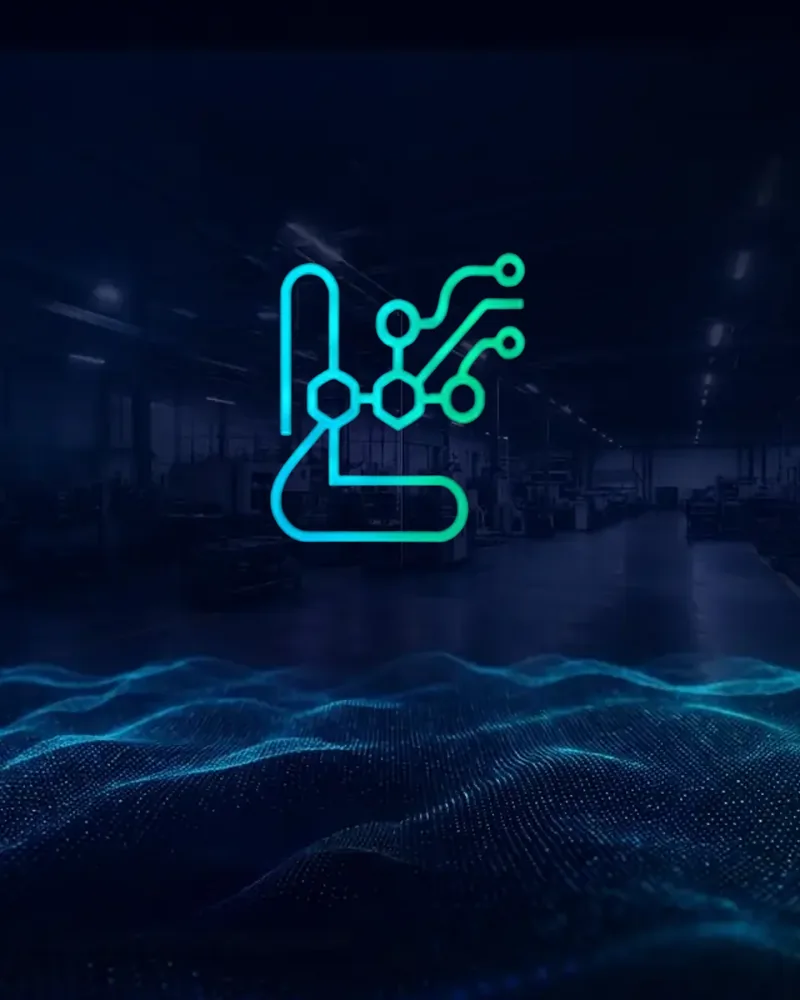
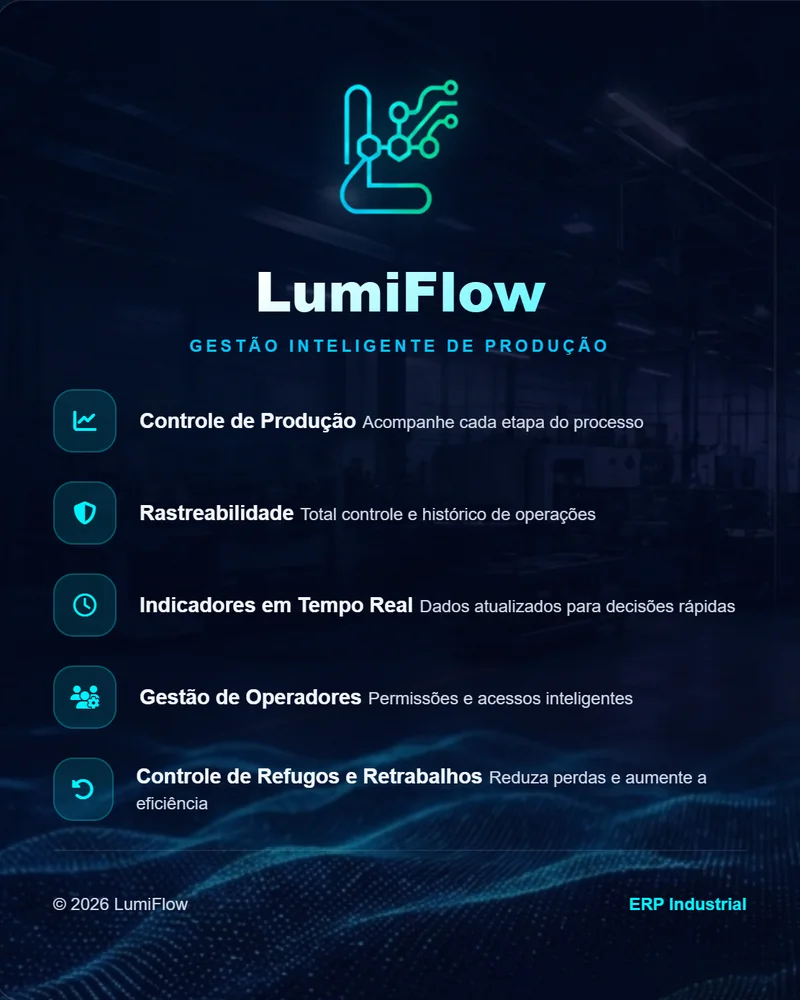
feat: visualizador ampliado e capa com a tela de entrada do LumiFlow
Visualizador
- Clicar numa imagem do carrossel abre a versão ampliada num <dialog>
  nativo, com setas, contador, botão Fechar, Esc e clique fora
- O foco vai para Fechar ao abrir e volta à imagem ao fechar; as setas
  do teclado também funcionam dentro do visualizador
- Fundo escurecido pelo novo token --color-overlay; a imagem entra com
  fade, desligado com movimento reduzido

Capa
- A capa do carrossel passa a ser o painel de informações da tela de
  login real do LumiFlow (logo e as cinco funções), sem o formulário

diff --git a/src/sections/Projects/ImageCarousel.tsx b/src/sections/Projects/ImageCarousel.tsx
@@ -1,4 +1,11 @@
-import { useState, type KeyboardEvent } from 'react'
+import {
+  useEffect,
+  useRef,
+  useState,
+  type KeyboardEvent,
+  type MouseEvent,
+  type SyntheticEvent,
+} from 'react'
 import type { ProjectImage } from '../../types'
 import styles from './ImageCarousel.module.css'
 
@@ -28,14 +35,69 @@ function Chevron({ direction }: { direction: 'left' | 'right' }) {
   )
 }
 
+function CloseIcon() {
+  return (
+    <svg
+      className={styles.icon}
+      viewBox="0 0 24 24"
+      aria-hidden="true"
+      focusable="false"
+    >
+      <path
+        d="M6 6l12 12M18 6L6 18"
+        fill="none"
+        stroke="currentColor"
+        strokeWidth="2"
+        strokeLinecap="round"
+      />
+    </svg>
+  )
+}
+
 /**
  * Carrossel simples: uma imagem por vez, setas, indicadores e as setas do
  * teclado. Não troca sozinho (o projeto só permite o fade-in como animação).
+ * Clicar na imagem abre um visualizador ampliado num <dialog> nativo.
  */
 export function ImageCarousel({ images, label }: ImageCarouselProps) {
   const [index, setIndex] = useState(0)
+  const [zoomed, setZoomed] = useState(false)
+  const dialogRef = useRef<HTMLDialogElement>(null)
+  const closeRef = useRef<HTMLButtonElement>(null)
+  const zoomRefs = useRef<(HTMLButtonElement | null)[]>([])
+  const reopenFocus = useRef(false)
   const total = images.length
+  const current = images[index]
   const go = (next: number) => setIndex((next + total) % total)
+
+  useEffect(() => {
+    const dialog = dialogRef.current
+    if (!dialog) return
+    if (zoomed) {
+      // jsdom e navegadores antigos não têm showModal: usa o atributo open.
+      if (typeof dialog.showModal === 'function') {
+        if (!dialog.open) dialog.showModal()
+      } else {
+        dialog.setAttribute('open', '')
+      }
+      closeRef.current?.focus()
+    } else {
+      if (typeof dialog.close === 'function') {
+        if (dialog.open) dialog.close()
+      } else {
+        dialog.removeAttribute('open')
+      }
+      if (reopenFocus.current) {
+        reopenFocus.current = false
+        zoomRefs.current[index]?.focus()
+      }
+    }
+  }, [zoomed, index])
+
+  function closeZoom() {
+    reopenFocus.current = true
+    setZoomed(false)
+  }
 
   function handleKeyDown(event: KeyboardEvent<HTMLDivElement>) {
     if (event.key === 'ArrowRight') {
@@ -44,7 +106,21 @@ export function ImageCarousel({ images, label }: ImageCarouselProps) {
     } else if (event.key === 'ArrowLeft') {
       event.preventDefault()
       go(index - 1)
+    } else if (event.key === 'Escape' && zoomed) {
+      event.preventDefault()
+      closeZoom()
     }
+  }
+
+  // Esc no <dialog> nativo dispara "cancel": fecha pelo estado do React.
+  function handleCancel(event: SyntheticEvent<HTMLDialogElement>) {
+    event.preventDefault()
+    closeZoom()
+  }
+
+  // Clique no fundo escurecido (fora da imagem) fecha.
+  function handleBackdropClick(event: MouseEvent<HTMLDialogElement>) {
+    if (event.target === event.currentTarget) closeZoom()
   }
 
   return (
@@ -65,15 +141,25 @@ export function ImageCarousel({ images, label }: ImageCarouselProps) {
             aria-label={`${i + 1} de ${total}`}
             hidden={i !== index}
           >
-            <img
-              className={styles.image}
-              src={image.src}
-              alt={image.alt}
-              width={image.width}
-              height={image.height}
-              loading="lazy"
-              decoding="async"
-            />
+            <button
+              ref={(element) => {
+                zoomRefs.current[i] = element
+              }}
+              type="button"
+              className={styles.zoom}
+              aria-label={`Ampliar imagem ${i + 1} de ${total}`}
+              onClick={() => setZoomed(true)}
+            >
+              <img
+                className={styles.image}
+                src={image.src}
+                alt={image.alt}
+                width={image.width}
+                height={image.height}
+                loading="lazy"
+                decoding="async"
+              />
+            </button>
           </div>
         ))}
         <button
@@ -110,6 +196,54 @@ export function ImageCarousel({ images, label }: ImageCarouselProps) {
           ))}
         </div>
       </div>
+      <dialog
+        ref={dialogRef}
+        className={styles.lightbox}
+        aria-label="Imagem ampliada"
+        onCancel={handleCancel}
+        onClick={handleBackdropClick}
+      >
+        {zoomed && (
+          <div className={styles.lightboxInner}>
+            <img
+              key={current.src}
+              className={styles.lightboxImage}
+              src={current.src}
+              alt={current.alt}
+              width={current.width}
+              height={current.height}
+            />
+            <button
+              ref={closeRef}
+              type="button"
+              className={`${styles.arrow} ${styles.close}`}
+              aria-label="Fechar"
+              onClick={closeZoom}
+            >
+              <CloseIcon />
+            </button>
+            <button
+              type="button"
+              className={`${styles.arrow} ${styles.prev}`}
+              aria-label="Imagem anterior"
+              onClick={() => go(index - 1)}
+            >
+              <Chevron direction="left" />
+            </button>
+            <button
+              type="button"
+              className={`${styles.arrow} ${styles.next}`}
+              aria-label="Próxima imagem"
+              onClick={() => go(index + 1)}
+            >
+              <Chevron direction="right" />
+            </button>
+            <p className={styles.lightboxCounter}>
+              {index + 1} de {total}
+            </p>
+          </div>
+        )}
+      </dialog>
     </div>
   )
 }

diff --git a/src/sections/Projects/ImageCarousel.test.tsx b/src/sections/Projects/ImageCarousel.test.tsx
@@ -86,4 +86,70 @@ describe('ImageCarousel', () => {
     expect(animation).toBeGreaterThan(reduced)
     expect(css).toMatch(/@keyframes\s+\w+/)
   })
+
+  describe('visualizador ampliado', () => {
+    it('a imagem é um botão que abre a versão ampliada', async () => {
+      const user = userEvent.setup()
+      render(<ImageCarousel images={images} label="Imagens do LumiFlow" />)
+      expect(screen.queryByRole('dialog')).toBeNull()
+      await user.click(
+        screen.getByRole('button', { name: 'Ampliar imagem 1 de 3' }),
+      )
+      const dialog = screen.getByRole('dialog', { name: 'Imagem ampliada' })
+      expect(
+        within(dialog).getByRole('img', { name: 'Primeira tela' }),
+      ).toBeInTheDocument()
+      expect(
+        within(dialog).getByRole('button', { name: 'Fechar' }),
+      ).toHaveFocus()
+    })
+
+    it('fecha pelo botão Fechar e devolve o foco à imagem', async () => {
+      const user = userEvent.setup()
+      render(<ImageCarousel images={images} label="Imagens do LumiFlow" />)
+      const zoom = screen.getByRole('button', { name: 'Ampliar imagem 1 de 3' })
+      await user.click(zoom)
+      await user.click(screen.getByRole('button', { name: 'Fechar' }))
+      expect(screen.queryByRole('dialog')).toBeNull()
+      expect(zoom).toHaveFocus()
+    })
+
+    it('fecha com Esc', async () => {
+      const user = userEvent.setup()
+      render(<ImageCarousel images={images} label="Imagens do LumiFlow" />)
+      await user.click(
+        screen.getByRole('button', { name: 'Ampliar imagem 1 de 3' }),
+      )
+      await user.keyboard('{Escape}')
+      expect(screen.queryByRole('dialog')).toBeNull()
+    })
+
+    it('as setas do visualizador passam as imagens junto com o carrossel', async () => {
+      const user = userEvent.setup()
+      render(<ImageCarousel images={images} label="Imagens do LumiFlow" />)
+      await user.click(
+        screen.getByRole('button', { name: 'Ampliar imagem 1 de 3' }),
+      )
+      const dialog = screen.getByRole('dialog', { name: 'Imagem ampliada' })
+      await user.click(
+        within(dialog).getByRole('button', { name: 'Próxima imagem' }),
+      )
+      expect(
+        within(dialog).getByRole('img', { name: 'Segunda tela' }),
+      ).toBeInTheDocument()
+      await user.click(within(dialog).getByRole('button', { name: 'Fechar' }))
+      expect(screen.getByText('2 de 3')).toBeInTheDocument()
+    })
+
+    it('aberto, não tem violações de acessibilidade', async () => {
+      const user = userEvent.setup()
+      const { container } = render(
+        <ImageCarousel images={images} label="Imagens do LumiFlow" />,
+      )
+      await user.click(
+        screen.getByRole('button', { name: 'Ampliar imagem 1 de 3' }),
+      )
+      expect(await axe(container)).toHaveNoViolations()
+    })
+  })
 })

diff --git a/src/sections/Projects/ImageCarousel.module.css b/src/sections/Projects/ImageCarousel.module.css
@@ -131,3 +131,102 @@
 .dot:hover::before {
   background: var(--color-accent-text);
 }
+
+/* A imagem do carrossel é um botão que abre o visualizador ampliado. */
+.zoom {
+  display: block;
+  width: 100%;
+  height: 100%;
+  padding: 0;
+  border: 0;
+  background: none;
+  cursor: zoom-in;
+}
+
+.zoom:focus-visible {
+  outline-offset: -4px;
+}
+
+/* Visualizador ampliado (<dialog> nativo). */
+.lightbox {
+  width: 100vw;
+  max-width: 100vw;
+  height: 100dvh;
+  max-height: 100dvh;
+  margin: 0;
+  padding: var(--space-6);
+  border: 0;
+  /* O escurecimento fica no próprio dialog: o ::backdrop não herda tokens. */
+  background: var(--color-overlay);
+  color: var(--color-text);
+}
+
+.lightbox[open] {
+  display: grid;
+  place-items: center;
+}
+
+.lightbox::backdrop {
+  background: transparent;
+}
+
+.lightboxInner {
+  position: relative;
+  display: flex;
+  flex-direction: column;
+  align-items: center;
+  gap: var(--space-3);
+}
+
+.lightboxImage {
+  display: block;
+  width: auto;
+  max-width: min(100%, 48rem);
+  height: auto;
+  max-height: calc(100dvh - var(--space-24));
+  border: 1px solid var(--color-border);
+  border-radius: var(--radius-md);
+  box-shadow: var(--shadow-md);
+}
+
+.close {
+  top: var(--space-3);
+  right: var(--space-3);
+  transform: none;
+}
+
+.lightboxInner .prev {
+  left: calc(-1 * var(--space-12));
+}
+
+.lightboxInner .next {
+  right: calc(-1 * var(--space-12));
+}
+
+/* Em telas estreitas as setas ficam sobre a imagem. */
+@media (max-width: 40rem) {
+  .lightbox {
+    padding: var(--space-3);
+  }
+
+  .lightboxInner .prev {
+    left: var(--space-2);
+  }
+
+  .lightboxInner .next {
+    right: var(--space-2);
+  }
+}
+
+.lightboxCounter {
+  color: var(--color-text-muted);
+  font-family: var(--font-mono);
+  font-size: var(--text-xs);
+  letter-spacing: 0.04em;
+}
+
+@media (prefers-reduced-motion: no-preference) {
+  .lightbox[open] .lightboxImage {
+    animation: slide-fade 300ms ease;
+  }
+}

diff --git a/src/data/projects.ts b/src/data/projects.ts
@@ -44,7 +44,7 @@ export const projects: readonly Project[] = [
       gallery: [
         {
           src: lumiflowCover,
-          alt: 'Capa do LumiFlow: o logo do sistema sobre uma fábrica escura, com uma onda de pontos ciano.',
+          alt: 'Capa do LumiFlow: tela de entrada do sistema com o logo, “Gestão inteligente de produção” e as funções Controle de Produção, Rastreabilidade, Indicadores em Tempo Real, Gestão de Operadores e Controle de Refugos e Retrabalhos.',
           width: 800,
           height: 1000,
         },

diff --git a/src/sections/Projects/ProjectShowcase.test.tsx b/src/sections/Projects/ProjectShowcase.test.tsx
@@ -66,7 +66,7 @@ describe('ProjectShowcase', () => {
       .getAllByRole('img', { hidden: true })
       .map((img) => img.getAttribute('alt'))
     expect(alts).toHaveLength(4)
-    expect(alts[0]).toMatch(/^Capa do LumiFlow/)
+    expect(alts[0]).toMatch(/^Capa do LumiFlow: tela de entrada do sistema/)
     expect(alts[1]).toMatch(/Onde está cada ordem de produção agora/)
   })
 

diff --git a/src/styles/tokens.css b/src/styles/tokens.css
@@ -10,6 +10,7 @@
   --color-accent: #8b5cf6;
   --color-accent-hover: #a78bfa;
   --color-accent-text: #a78bfa;
+  --color-overlay: rgb(11 11 15 / 95%);
 
   /* Tipografia */
   --font-sans:
